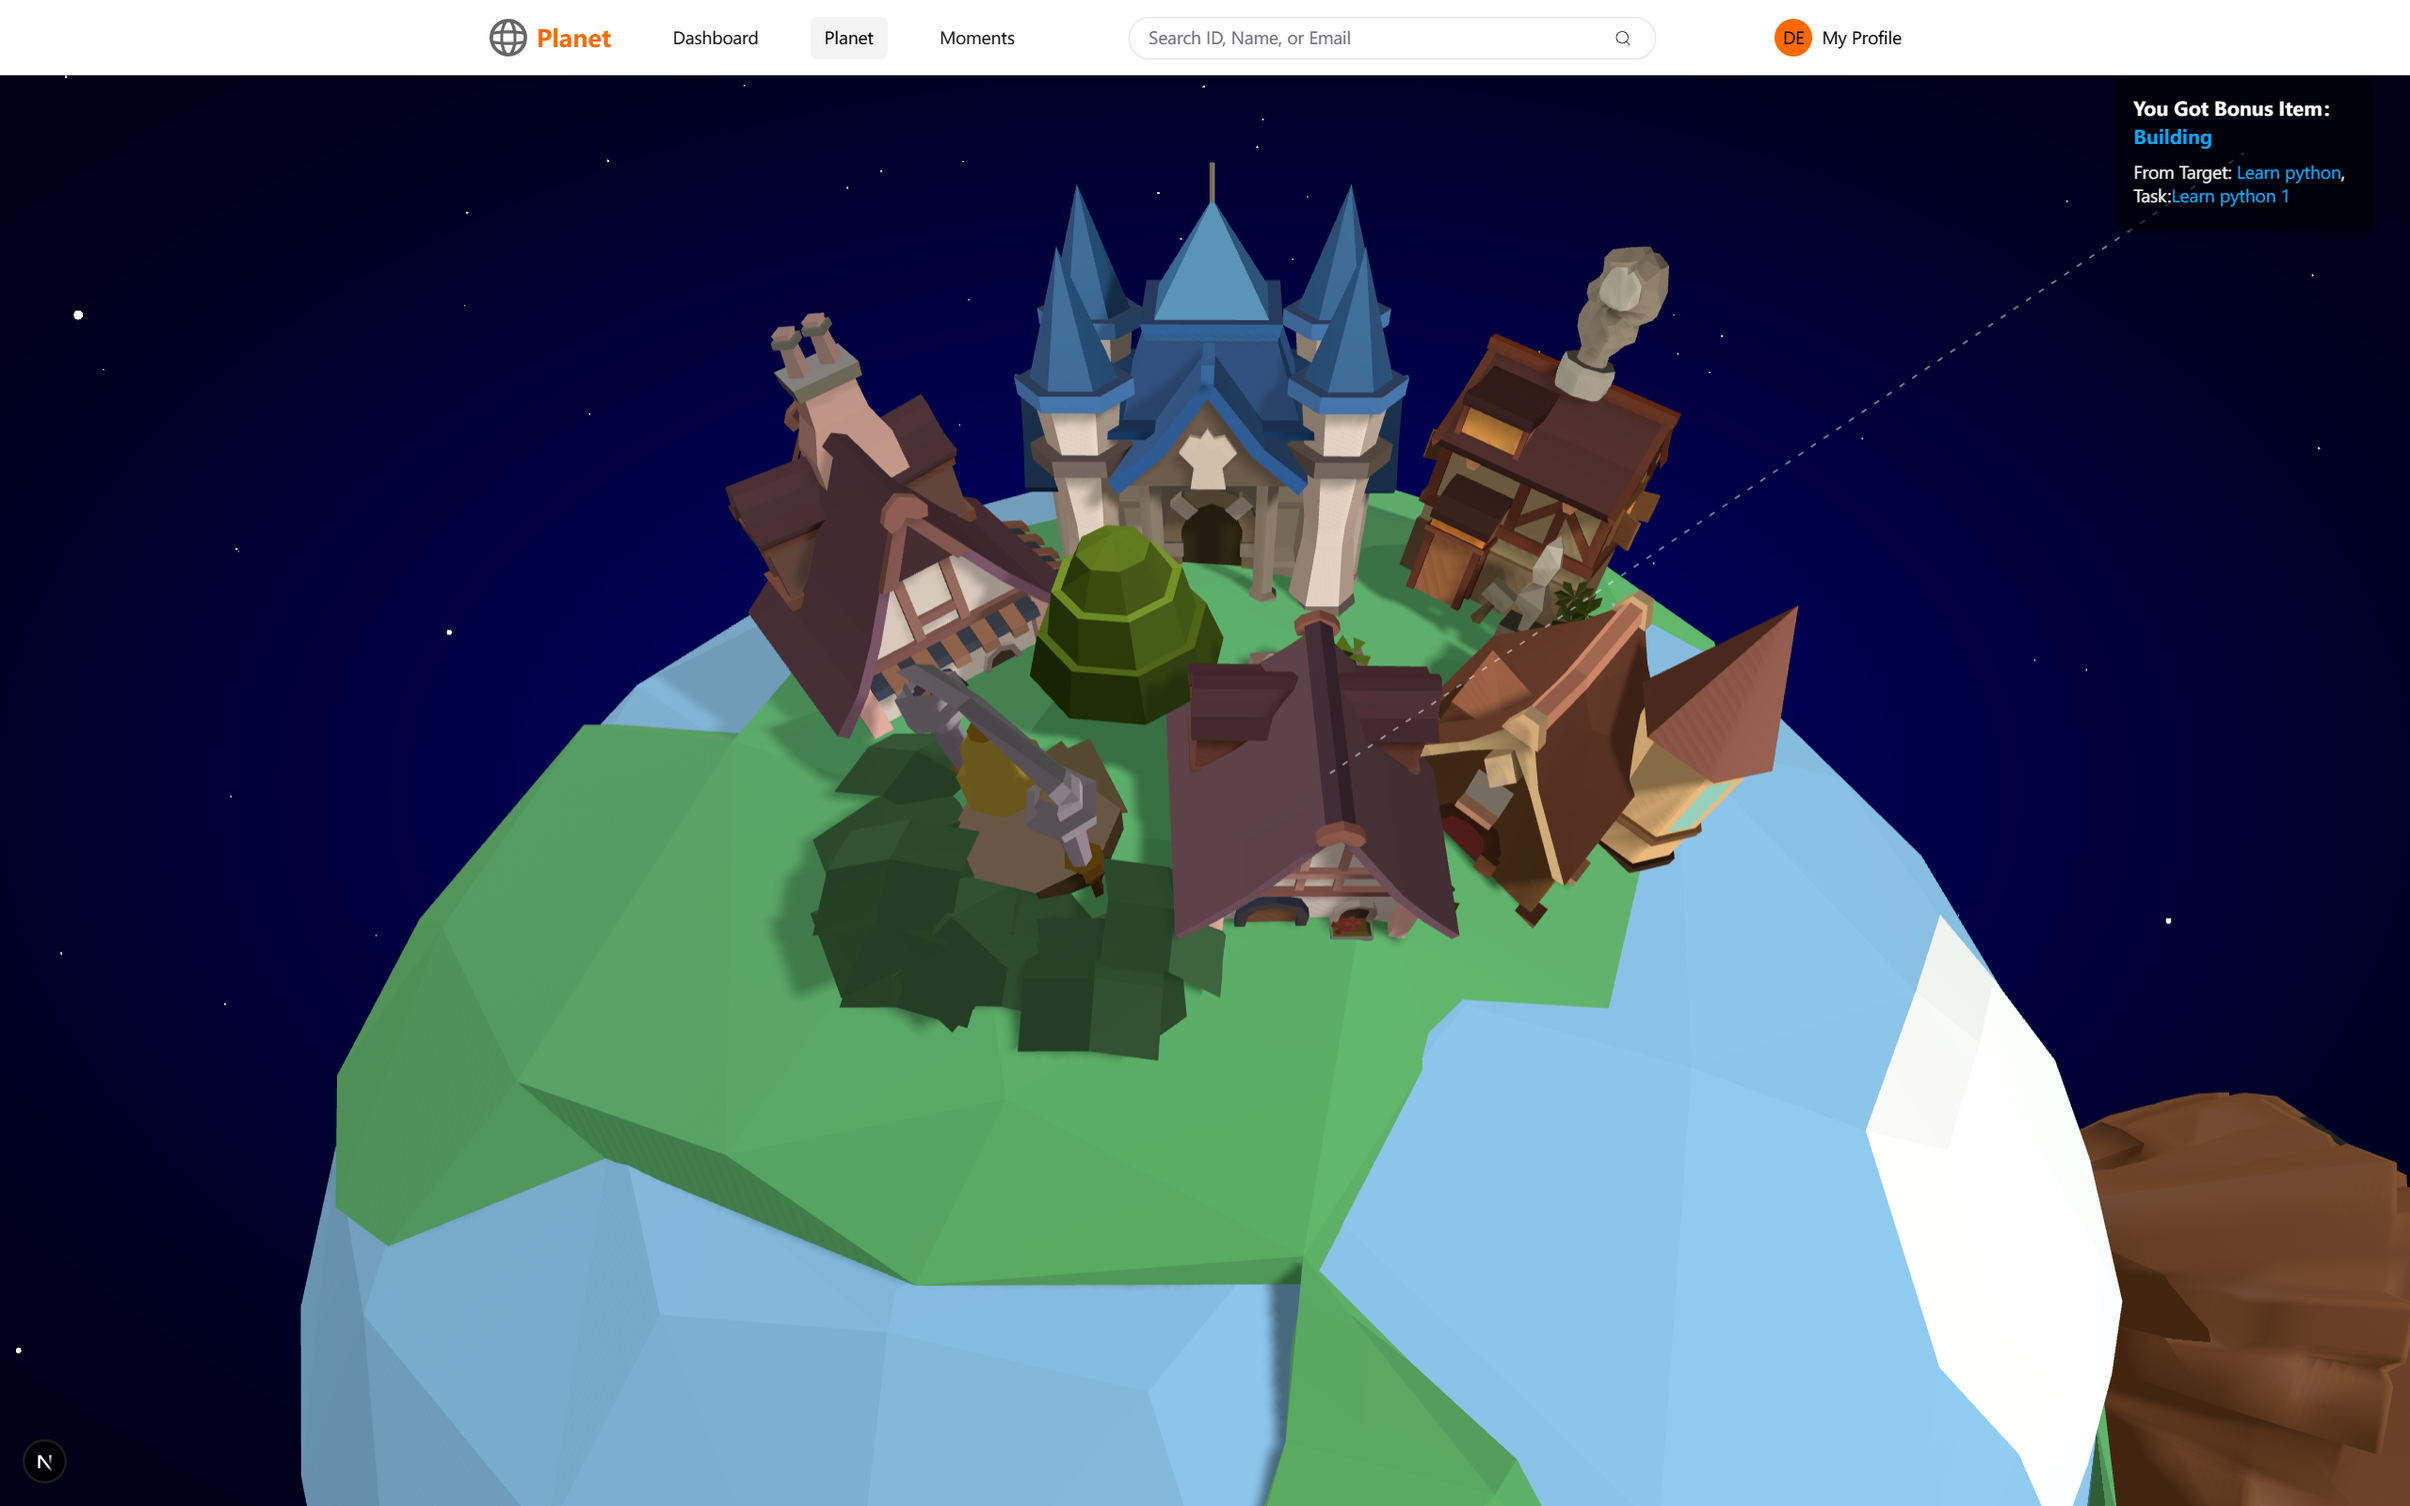
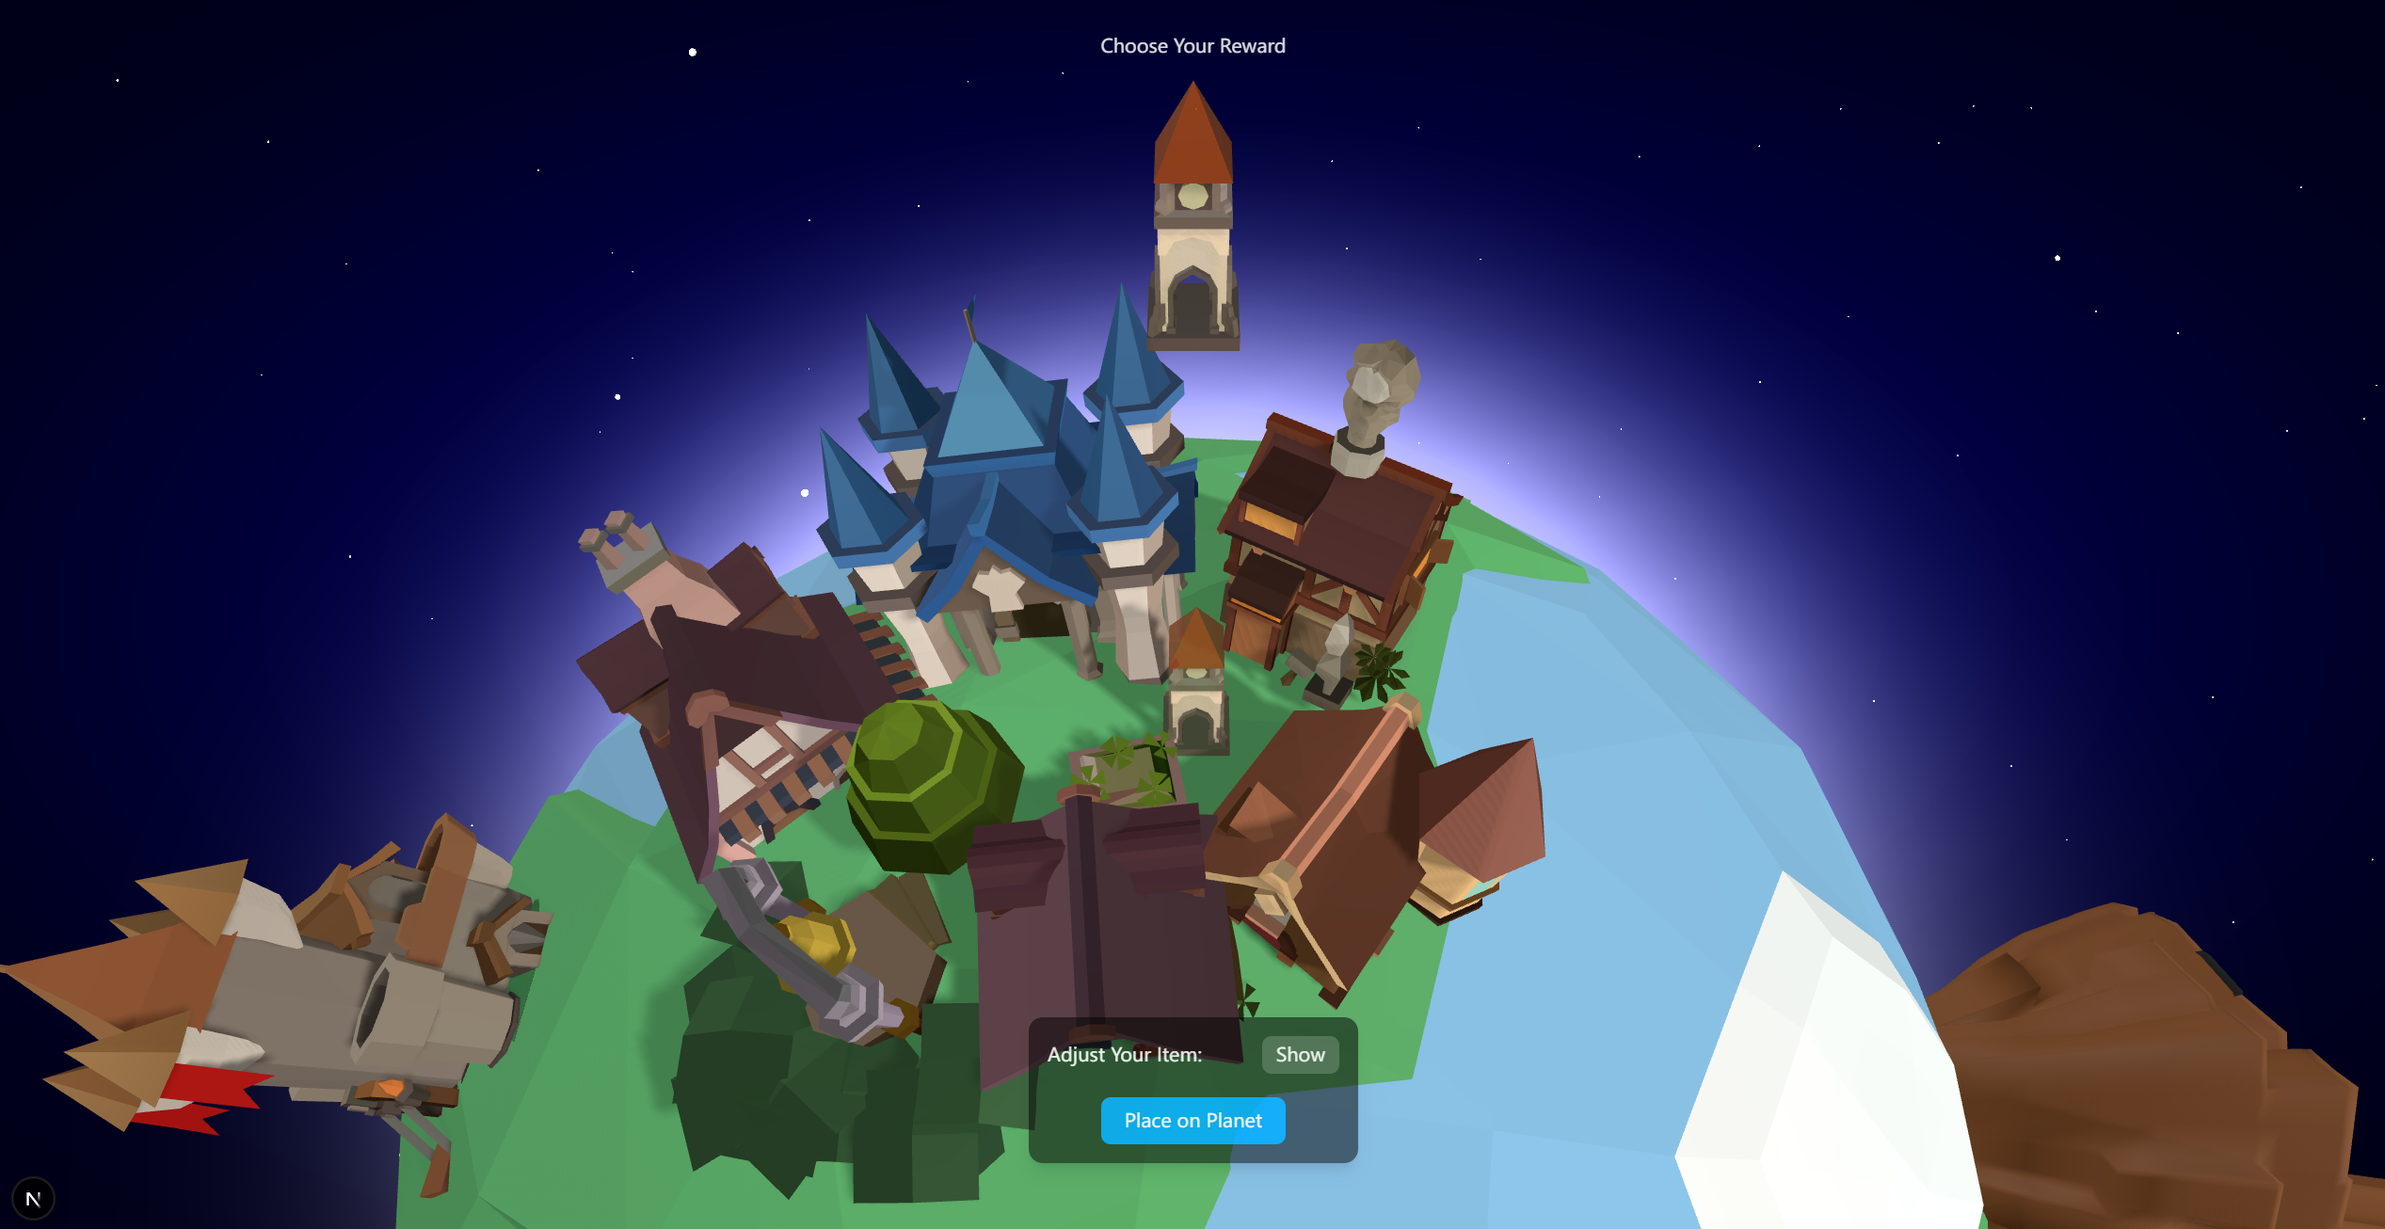
Add atomsphere effect and 3 objs preview

diff --git a/src/app/planet/page.jsx b/src/app/planet/page.jsx
@@ -35,6 +35,7 @@ const PlanetContent = ({ id }) => {
   const placedRef = useRef(false)
   const hasLoadedRef = useRef(false)
   const objectsRef = useRef(new Map())
+  const atmosphereRef = useRef()
 
   const [placed, setPlaced] = useState(false)
   const [error, setError] = useState(null)
@@ -43,6 +44,7 @@ const PlanetContent = ({ id }) => {
   const [taskInfo, setTaskInfo] = useState(null)
   const [rewardOptions, setRewardOptions] = useState([])
   const [selectedReward, setSelectedReward] = useState(null)
+  const rewardPreviewRefs = useRef(new Map())
 
   const dragging = useRef(false)
   const dragMode = useRef('')
@@ -201,6 +203,27 @@ const PlanetContent = ({ id }) => {
     }
   }
 
+  const atmosphereVertexShader = `
+    varying vec3 vNormal;
+    varying vec3 vPosition;
+    
+    void main() {
+      vNormal = normalize(normalMatrix * normal);
+      vPosition = position;
+      gl_Position = projectionMatrix * modelViewMatrix * vec4(position, 1.0);
+    }
+  `
+
+  const atmosphereFragmentShader = `
+    varying vec3 vNormal;
+    varying vec3 vPosition;
+    
+    void main() {
+      float intensity = pow(0.45 - dot(vNormal, vec3(0.0, 0.0, 1.0)), 2.0);
+      gl_FragColor = vec4(1.0, 1.0, 1.0, 0.7) * intensity;
+    }
+  `
+
   useEffect(() => {
     if (!user || loading) return
     if (hasLoadedRef.current) return
@@ -216,6 +239,18 @@ const PlanetContent = ({ id }) => {
       const group = new THREE.Group()
       group.add(model)
       scene.add(group)
+
+      const atmosphereGeometry = new THREE.SphereGeometry(12.1, 44, 44)
+      const atmosphereMaterial = new THREE.ShaderMaterial({
+        vertexShader: atmosphereVertexShader,
+        fragmentShader: atmosphereFragmentShader,
+        transparent: true,
+        side: THREE.BackSide,
+        blending: THREE.AdditiveBlending
+      })
+      const atmosphere = new THREE.Mesh(atmosphereGeometry, atmosphereMaterial)
+      group.add(atmosphere)
+      atmosphereRef.current = atmosphere
 
       model.traverse((child) => {
         if (child.isMesh) {
@@ -470,6 +505,130 @@ const PlanetContent = ({ id }) => {
     })
   }
 
+  const initRewardPreviews = async () => {
+    if (!rewardOptions.length) return
+
+    for (const model of rewardOptions) {
+      const container = document.getElementById(`preview-${model}`)
+      if (!container) continue
+
+      const previewScene = new THREE.Scene()
+      const previewCamera = new THREE.PerspectiveCamera(45, 1, 0.1, 1000)
+      const previewRenderer = new THREE.WebGLRenderer({ alpha: true, antialias: true })
+      previewRenderer.setSize(200, 200)
+      previewRenderer.setClearColor(0x000000, 0)
+
+      const ambientLight = new THREE.AmbientLight(0xffffff, 0.8)
+      previewScene.add(ambientLight)
+
+      const directionalLight = new THREE.DirectionalLight(0xffffff, 1.2)
+      directionalLight.position.set(5, 5, 5)
+      previewScene.add(directionalLight)
+
+      const loadedModel = await modelLoader(`/decorations/${model}`, { s: [0.5, 0.5, 0.5] })
+      
+      loadedModel.position.set(0, 0, 0)
+      loadedModel.rotation.set(0, Math.PI / 4, 0)
+      
+      previewScene.add(loadedModel)
+      
+      previewCamera.position.z = 5
+      previewCamera.position.y = 2
+      previewCamera.lookAt(0, 0, 0)
+      
+      previewRenderer.render(previewScene, previewCamera)
+      container.appendChild(previewRenderer.domElement)
+      
+      rewardPreviewRefs.current.set(model, {
+        scene: previewScene,
+        camera: previewCamera,
+        renderer: previewRenderer,
+        model: loadedModel
+      })
+
+      const animate = () => {
+        if (!rewardPreviewRefs.current.has(model)) return
+        
+        const { scene, camera, renderer, model: previewModel } = rewardPreviewRefs.current.get(model)
+        if (previewModel) {
+          previewModel.rotation.y += 0.005 // 降低旋转速度
+        }
+        renderer.render(scene, camera)
+        requestAnimationFrame(animate)
+      }
+      animate()
+    }
+  }
+
+  useEffect(() => {
+    return () => {
+      rewardPreviewRefs.current.forEach(({ renderer, scene }) => {
+        renderer.dispose()
+        scene.traverse((object) => {
+          if (object.isMesh) {
+            object.geometry.dispose()
+            if (object.material) {
+              if (Array.isArray(object.material)) {
+                object.material.forEach(material => material.dispose())
+              } else {
+                object.material.dispose()
+              }
+            }
+          }
+        })
+      })
+      rewardPreviewRefs.current.clear()
+    }
+  }, [])
+
+  useEffect(() => {
+    if (rewardOptions.length > 0) {
+      initRewardPreviews()
+    }
+  }, [rewardOptions])
+
+  const lastInteractionTime = useRef(Date.now())
+  const isAutoRotating = useRef(false)
+  const autoRotateSpeed = 0.00025
+  const idleTimeout = 8000
+
+  const updateLastInteractionTime = () => {
+    lastInteractionTime.current = Date.now()
+    isAutoRotating.current = false
+  }
+
+  const checkAutoRotate = () => {
+    const now = Date.now()
+    if (now - lastInteractionTime.current > idleTimeout && !isAutoRotating.current) {
+      isAutoRotating.current = true
+    }
+  }
+
+  useEffect(() => {
+    let animationFrameId
+
+    const animate = () => {
+      checkAutoRotate()
+      
+      if (isAutoRotating.current && planetGroupRef.current) {
+        planetGroupRef.current.rotation.y += autoRotateSpeed
+        if (atmosphereRef.current) {
+          atmosphereRef.current.rotation.y += autoRotateSpeed
+        }
+      }
+      
+      animationFrameId = requestAnimationFrame(animate)
+    }
+
+    animate()
+
+    return () => {
+      if (animationFrameId) {
+        cancelAnimationFrame(animationFrameId)
+      }
+    }
+  }, [])
+
   useEffect(() => {
     if (!targetUserId || loading) return
     const dom = containerRef.current
@@ -481,6 +640,7 @@ const PlanetContent = ({ id }) => {
         return
       }
 
+      updateLastInteractionTime()
       dragging.current = true
       lastMouse.current = { x: event.clientX || event.touches[0].clientX, y: event.clientY || event.touches[0].clientY }
 
@@ -523,6 +683,10 @@ const PlanetContent = ({ id }) => {
         return
       }
 
+      if (dragging.current) {
+        updateLastInteractionTime()
+      }
+
       if (!dragging.current || dragMode.current !== 'planet' || !planetGroupRef.current) return
       const width = containerRef.current.clientWidth
       const height = containerRef.current.clientHeight
@@ -561,6 +725,7 @@ const PlanetContent = ({ id }) => {
 
       dragging.current = false
       dragMode.current = ''
+      updateLastInteractionTime()
 
       if (controlsRef.current) {
         controlsRef.current.enabled = true
@@ -652,7 +817,7 @@ const PlanetContent = ({ id }) => {
       )}
 
       {finishedTaskId && !selectedReward && !placed && (
-        <div className="opacity-85 absolute bottom-[6%] left-1/2 -translate-x-1/2 bg-black/60 p-4 rounded-xl shadow-lg z-10 flex flex-col gap-3 min-w-[280px] max-w-[90vw]">
+        <div className="opacity-85 absolute bottom-[6%] left-1/2 -translate-x-1/2 bg-black/60 p-4 rounded-xl shadow-lg z-10 flex flex-col gap-3 w-[95vw] max-w-[500px]">
           {taskInfo && (
             <div className="text-center mb-4">
               <h2 className="text-white text-xl font-semibold mb-2">Congratulations!</h2>
@@ -667,9 +832,10 @@ const PlanetContent = ({ id }) => {
               <button
                 key={index}
                 onClick={() => handleRewardSelection(model)}
-                className="bg-white/20 hover:bg-white/30 text-white p-3 rounded-lg transition-colors"
+                className="bg-white/20 hover:bg-white/30 text-white p-3 rounded-lg transition-colors flex flex-col items-center"
               >
-                {model.replace('.fbx', '')}
+                <div id={`preview-${model}`} className="w-full aspect-square mb-2" />
+                <span className="text-sm sm:text-base">{model.replace('.fbx', '')}</span>
               </button>
             ))}
           </div>
